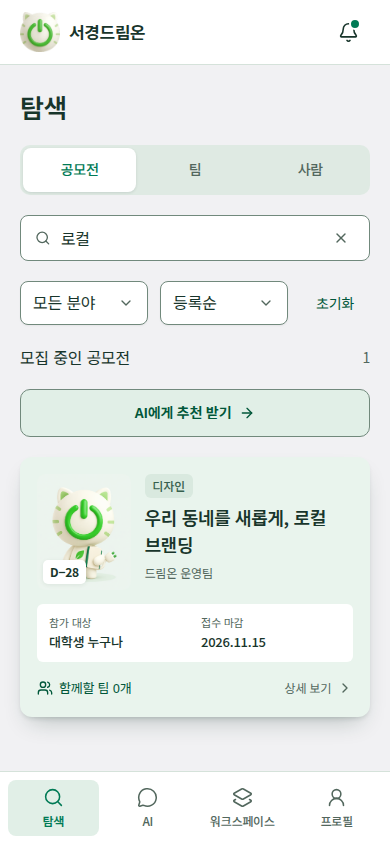
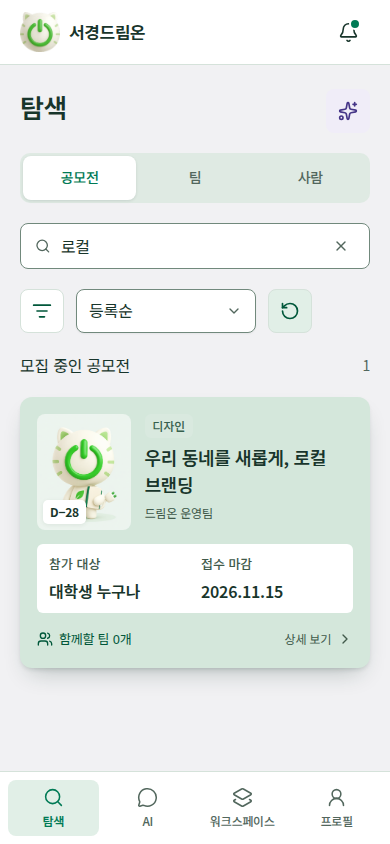
docs(design): refresh interaction guidance and mobile captures

diff --git a/docs/design/tokens.md b/docs/design/tokens.md
@@ -1,13 +1,15 @@
 # 스타일과 컴포넌트
 
-모바일 공식 디자인은 기존 중립 회색 배경과 옅은 녹색 카드, 에메랄드 주요 버튼을 사용합니다. 서경대학교 홈페이지의 녹색 강조와 밝은 표면을 참고해 본문·조작·상태의 역할을 구분합니다. 밝은 녹색은 마스코트 이미지에 두고, 작은 글자와 주요 행동에는 명암 대비를 확보한 짙은 녹색을 적용합니다. 색상과 수치는 [preview-tokens.css](../../design-reference/src/features/design-preview/preview-tokens.css)가 원본이며 이 문서는 사용 의도를 설명합니다.
+모바일 공식 디자인은 기존 중립 회색 배경과 녹색 카드, 에메랄드 주요 버튼을 사용합니다. 서경대학교 홈페이지의 녹색 강조와 밝은 표면을 참고해 본문·조작·상태의 역할을 구분합니다. 카드 자체의 색과 그림자로 배경과의 구분을 강화하고, 작은 글자와 주요 행동에는 명암 대비를 확보한 짙은 녹색을 적용합니다. 색상과 수치는 [preview-tokens.css](../../design-reference/src/features/design-preview/preview-tokens.css)가 원본이며 이 문서는 사용 의도를 설명합니다.
 
 ## 표면과 상태
 
 | 용도 | 토큰 · 현재 값 | 적용 |
 | --- | --- | --- |
 | 화면 바탕 | `--surface-canvas: #f1f1f3` | 스크롤 화면의 배경 |
-| 콘텐츠 카드 | `--surface-card: #e9f4ed` | 공모전·팀·사람·AI 결과 카드, 프로필·내용 패널과 지원자 행 |
+| 콘텐츠 카드 | `--surface-card: #d4e7db` | 공모전·팀·사람·AI 결과 카드, 프로필·내용 패널과 지원자 행 |
+| 카드 hover·포커스 | `--surface-card-hover: #bdd9c7` | 조작 가능한 카드에 커서·키보드 포커스가 올라온 상태 |
+| 누른 카드 | `--surface-card-pressed: #b2d0bd` | 카드의 누름 상태 |
 | 입력·상단·팝업·폼 | `--card`, `--background: #ffffff` | 기본 shadcn 표면과 조작 영역, 카드 안 공모전 정보 |
 | 카드 안 보조 면 | `--muted: #f2f7f4` | 카드의 보조 정보 |
 | 눌린 면·탭 바탕 | `--surface-sunken: #dfeae3` | 탭 레일·설정·사용자 메시지 등 |
@@ -15,14 +17,16 @@
 | 주요 행동·선택 | `--primary: #007a55`, hover `#00573a` | 주요 버튼·선택한 탭·탐색 항목 |
 | 선택한 면 | `--accent: #e1efe7`, 글자 `#00573a` | 선택·hover 영역 |
 | AI 보조 강조 | `--ai-soft: #f0edf8`, `--ai-ink: #453587` | AI 시작 아이콘의 보조색 |
-| 보조 텍스트 | `--muted-foreground: #52675d` | 설명·부가 정보 |
+| 보조 텍스트 | `--muted-foreground: #52675d` | 흰 조작 면의 설명·부가 정보 |
+| 카드 안 보조 텍스트 | `--card-muted-foreground: #40594a` | 녹색 카드·내용 패널·지원자 행에서 보조 텍스트 토큰을 덮어씀 |
+| 카드 안 링크 | `--accent-foreground: #00573a` | 상세 보기·팀 공간으로 등 카드 안 이동 행동 |
 | 경계·입력 | `--border: #d5e2da`, `--input: #71897c` | 카드와 조작 요소의 경계 |
 | 포커스 | `--ring: #007a55` | 키보드 포커스 표시 |
 | 성공·확정 | `--leaf-soft: #f0fdf4`, `--leaf-ink: #166534` | 성공·완료 상태 |
 | 주의·확인 | `--warning-soft: #fffbeb`, `--warning-ink: #92400e` | 확인 필요·주의 상태 |
 | 오류·위험 행동 | `--coral-soft: #fef2f2`, `--coral-ink: #b91c1c` | 오류·파괴적 행동 |
 
-루트 [globals.css](../../design-reference/src/styles/globals.css)의 기본값만 가져오면 공식 화면의 표면 대비가 달라집니다. 모바일 범위의 토큰 덮어쓰기와 [service-ui.css](../../design-reference/src/features/design-preview/service-ui.css)의 실제 적용을 함께 확인합니다. 카드 바탕과 화면 바탕을 같은 색으로 합치지 않고, 상태는 색상 외에 문구·아이콘으로도 구분합니다. 주요 버튼의 흰 글자 대비는 5.36:1, 보조 글자는 녹색 카드에서 5.39:1, 흰 조작 면에서 6.07:1, 눌린 면에서 4.92:1입니다. 기본색은 [공식 홈페이지 CSS 확인 기록](assets.md)을 참고합니다.
+루트 [globals.css](../../design-reference/src/styles/globals.css)의 기본값만 가져오면 공식 화면의 표면 대비가 달라집니다. 모바일 범위의 토큰 덮어쓰기와 [service-ui.css](../../design-reference/src/features/design-preview/service-ui.css)의 실제 적용을 함께 확인합니다. 카드 바탕과 화면 바탕을 같은 색으로 합치지 않고, 상태는 색상 외에 문구·아이콘으로도 구분합니다. 주요 버튼의 흰 글자 대비는 5.36:1입니다. 카드 보조 글자는 기본·hover·누름 면에서 각각 5.92:1·5.07:1·4.61:1이며, 흰 조작 면의 기본 보조 글자는 6.07:1입니다. 기본색은 [공식 홈페이지 CSS 확인 기록](assets.md)을 참고합니다.
 
 ## 간격·글꼴·입체감
 
@@ -34,10 +38,15 @@
 | 컨트롤·버튼 반경 | 8px |
 | 카드·패널 반경 | 12px |
 | 페이지 제목 | 26px, 실제 계층은 화면별 스타일 확인 |
+| 읽기 전용 정보의 키 | 13px·500, 보조 텍스트 색상 |
+| 읽기 전용 정보의 값 | 16px·600, 본문 색상과 숫자 고정 폭 |
+| 긴 경험·자기소개 | 16px·400, 줄 높이 1.7 |
 | 폰트 | `DreamOn Noto` / Noto Sans KR |
 | 주요 조작 영역 | 버튼·아이콘·탭 등에서 최소 44px을 확보 |
 
-카드는 두 겹의 아래쪽 그림자(`--card-shadow`: 3px·12px 오프셋)로 회색 바탕에서 떠 있는 높이를 표현하고 작은 패널은 `--panel-shadow`를 사용합니다. 색은 화면 배경 대신 콘텐츠 카드에 적용하며, 공모전 카드의 대상·마감 정보는 흰 면으로 구분합니다. 카드 hover에서는 높이와 그림자가 커지고, 누르면 그림자가 낮아집니다. 정확한 그림자와 hover 값은 토큰 원본을 참조합니다. 모바일에서 hover에만 중요한 정보나 행동을 숨기지 않습니다. 장식용 그림자보다 표면 대비·여백·제목 계층을 우선하며, 버튼의 강조를 위해 그림자를 반복 추가하지 않습니다.
+카드는 두 겹의 아래쪽 그림자(`--card-shadow`: 3px·12px 오프셋)로 회색 바탕에서 떠 있는 높이를 표현하고 작은 패널은 `--panel-shadow`를 사용합니다. 색은 화면 배경 대신 콘텐츠 카드에 적용하며, 공모전 카드의 대상·마감 정보는 흰 면으로 구분합니다. 조작 가능한 카드는 hover·키보드 포커스에서 더 짙은 녹색으로 상태를 표시합니다. hover에서는 높이·그림자가 커지고, 누르면 그림자가 낮아집니다. 정확한 그림자와 상태별 적용은 토큰·스타일 원본을 참조합니다. 모바일에서 hover에만 중요한 정보나 행동을 숨기지 않습니다. 장식용 그림자보다 표면 대비·여백·제목 계층을 우선하며, 버튼의 강조를 위해 그림자를 반복 추가하지 않습니다.
+
+[information-hierarchy.css](../../design-reference/src/features/design-preview/information-hierarchy.css)는 공모전·팀 정보, 프로필과 지원자 정보의 키·값·설명을 구분합니다. 짧은 값은 강조하되 긴 문단과 빈 상태 안내 전체를 굵게 만들지 않습니다. 상세 정보는 라벨 열과 값 열을 맞추고 긴 값은 줄바꿈하며, 폼 입력 라벨과 실제 섹션 제목은 이 규칙으로 바꾸지 않습니다.
 
 [폰트 파일](../../design-reference/public/fonts/NotoSansKR.ttf)과 [OFL 라이선스](../../design-reference/public/fonts/OFL.txt), 카드의 공모전 커버·로고·파워프렌즈 캐릭터는 레퍼런스의 로컬 자산입니다. 원본 및 생성 이미지의 출처는 [자산 문서](assets.md)를 따릅니다. [PreviewUi](../../design-reference/src/features/design-preview/PreviewUi.tsx)의 사용처를 확인하고 파일·라이선스를 함께 유지합니다. 실제 인물 사진·공고 포스터로 오인해 서비스 데이터의 출처로 사용하지 않습니다.
 
@@ -51,6 +60,7 @@
 | 다중·단일 선택 | [Checkbox](../../design-reference/src/components/ui/checkbox.tsx), [RadioGroup](../../design-reference/src/components/ui/radio-group.tsx) |
 | 프로필 캐릭터 선택 | [Drawer](../../design-reference/src/components/ui/drawer.tsx) + [RadioGroup](../../design-reference/src/components/ui/radio-group.tsx), [AvatarPicker](../../design-reference/src/features/design-preview/AvatarPicker.tsx). 팝업 적용 후 프로필 저장, 취소 시 유지 |
 | 공모전 검색 선택 | [Drawer](../../design-reference/src/components/ui/drawer.tsx) + [Command](../../design-reference/src/components/ui/command.tsx), [ContestPicker](../../design-reference/src/features/design-preview/ContestPicker.tsx) |
+| 탐색 분야·역할 필터 | [Drawer](../../design-reference/src/components/ui/drawer.tsx) + [RadioGroup](../../design-reference/src/components/ui/radio-group.tsx) + [Checkbox](../../design-reference/src/components/ui/checkbox.tsx), [ExploreFilters](../../design-reference/src/features/design-preview/ExploreFilters.tsx). 초안 선택·취소·적용, 적용한 조건은 URL에 유지 |
 | 시간 설정·알림·확인 | [Drawer](../../design-reference/src/components/ui/drawer.tsx), 각 화면의 열기·닫기·취소·적용 흐름 |
 | AI 대화·입력 | [Message](../../design-reference/src/components/ui/message.tsx), [Bubble](../../design-reference/src/components/ui/bubble.tsx), [InputGroup](../../design-reference/src/components/ui/input-group.tsx), [MessageScroller](../../design-reference/src/components/ui/message-scroller.tsx) |
 | 상태 표시·경계 | [Badge](../../design-reference/src/components/ui/badge.tsx), [Separator](../../design-reference/src/components/ui/separator.tsx) |
@@ -60,5 +70,7 @@
 ## 모바일 상호작용 확인
 
 하단 탐색은 탐색·AI·워크스페이스·프로필의 네 항목입니다. 상단 우측 알림과 하단 프로필의 역할을 구분합니다. AI 화면은 대화·입력창·하단 영역을 함께 배치하며 [PreviewShell](../../design-reference/src/features/design-preview/PreviewShell.tsx)의 `visualViewport` 대응을 확인합니다.
+
+공모전·팀 탐색의 AI 추천 진입은 제목 옆 아이콘입니다. 필터와 초기화도 최소 44px 조작 영역의 아이콘 버튼으로 표시하며 접근성 이름을 제공합니다. 선택한 필터는 개수와 접근성 설명으로 알리고, 공모전 정렬은 선택 목록을 유지합니다. 정렬만 바꾼 경우에도 초기화 아이콘으로 기본 조건으로 돌아갈 수 있습니다.
 
 팝업은 열기·닫기·Escape·바깥 영역·포커스 복귀를 확인하고, 폼의 적용과 취소를 구분합니다. 프로필 공개 스위치는 라벨과 설명에서 누구에게 공개되는지 드러내야 합니다. 화면 제목·입력 라벨·오류 메시지·로딩·빈 상태를 유지하고 색만으로 상태를 전달하지 않습니다. 긴 한국어 텍스트·큰 글꼴·화면 확대·작은 높이·키보드가 열린 상태·감소된 모션 설정에서 조작이 가능한지 확인합니다.

diff --git a/docs/design/verification.md b/docs/design/verification.md
@@ -1,24 +1,26 @@
 # 공식 디자인 검증 기록
 
-2026-10-18 저장소 이관·기능 명세 정합 작업 이후, 로고·마스코트 선택·기본 커버·대학교 색상과 카드 입체감 적용까지 확인했습니다. 재생성 가능한 검증 원본은 [단위·컴포넌트 테스트](../../design-reference/src/features/design-preview/ExplorePages.test.tsx)와 [브라우저 검사 스크립트](../../design-reference/scripts/reference-check.cjs)이며, 화면은 같은 변경 PR에 포함된 코드 기준입니다.
+2026-10-18 저장소 이관·기능 명세 정합 작업 이후, 로고·마스코트 선택·기본 커버에 이어 카드 대비·탐색 아이콘과 필터 팝업·키/값 정보 계층을 검토했습니다. 재생성 가능한 검증 원본은 [단위·컴포넌트 테스트](../../design-reference/src/features/design-preview/ExplorePages.test.tsx)와 [브라우저 검사 스크립트](../../design-reference/scripts/reference-check.cjs)이며, 화면은 같은 변경 PR에 포함된 코드 기준입니다.
 
 ## 실행 결과
 
 | 검사 | 결과 |
 | --- | --- |
-| 고정 의존성 `npm ci` | 성공 |
-| `npm test` | 9개 파일, 105개 테스트 통과 |
-| ESLint·Prettier·TypeScript | 통과 |
-| production build | 성공. 단일 JS 청크 약 673kB 경고는 남아 있으며 제품 구현 시 분할·실제 네트워크 성능 검증 필요 |
-| `npm run check:ui` | Chromium 320×844·390×844·430×844 통과 |
+| 고정 의존성 `npm ci` | 이전 검증에서 성공. 이번 카드·탐색 개선에서는 의존성 변경 없이 기존 설치를 사용했으며 재실행하지 않음 |
+| `npm test` | 9개 파일, 107개 테스트 통과 |
+| ESLint·Prettier | 통과 |
+| TypeScript·production build | 통과. 단일 JS 청크 675.38kB 경고는 남아 있으며 제품 구현 시 분할·실제 네트워크 성능 검증 필요 |
+| `npm run check:ui` | Chromium 320×844·390×844·430×844 통과. 기존 흐름에 필터 취소·적용·초기화와 워크스페이스 중복 안내 제거 확인을 추가 |
 | 브라우저 확인 | 비로그인 사람 차단, 마감 공고 읽기 전용, 생성·프로필, 선발 즉시 팀원·정원 반영, AI 실패/재시도, 알림 실패/재시도 |
 | 별도 모바일 흐름 | 필수 입력 오류·원래 팀 복귀, 모집에 없는 역할 지원, 취소 후 새 지원, 공식 인원 오류, 개인 공모전 준비 팀, 공개 스위치·학사 연쇄 선택·포트폴리오 저장 |
 | 마스코트·기본 커버 | 5종 원본 PNG·선택/취소/저장·공개 프로필 반영, 이미지 없음/로드 실패 fallback, 320·390·430px 브라우저 확인 |
-| 키보드·작은 높이 | 마스코트 선택 화살표 키·Escape·트리거 포커스 복귀, 320×568 선택 목록 스크롤·하단 버튼 접근 확인 |
-| 색상 대비 | 주요 버튼 흰 글자 5.36:1, 보조 텍스트 녹색 카드 5.39:1·흰 조작 면 6.07:1·눌린 면 4.92:1. 모든 화면 전체의 자동 접근성 감사 완료를 뜻하지 않음 |
-| 카드와 배경 | 기존 중립 회색 배경 #f1f1f3 유지, 옅은 녹색 카드 #e9f4ed·강화한 아래쪽 그림자·흰 정보 면을 모바일에서 확인 |
+| 키보드·작은 높이 | 마스코트·탐색 필터의 화살표 키·Escape·트리거 포커스 복귀 확인. 320×568에서 두 선택 목록의 스크롤·하단 버튼 접근, 탐색 필터 적용·취소 확인 |
+| 색상 대비 | 주요 버튼 흰 글자 5.36:1. 카드 보조 글자 #40594a는 기본·hover·누름 면에서 5.92:1·5.07:1·4.61:1, 흰 조작 면의 기본 보조 글자는 6.07:1. 모든 화면 전체의 자동 접근성 감사 완료를 뜻하지 않음 |
+| 카드와 배경 | 기존 중립 회색 배경 #f1f1f3 유지, 카드 #d4e7db·hover #bdd9c7·누름 #b2d0bd, 아래쪽 그림자·흰 정보 면을 적용 |
+| 탐색 필터 | Drawer 초안 선택 후 취소 시 URL 유지, 적용 시 URL 반영·다시 열기 복원. 정렬만 변경해도 초기화 아이콘으로 기본 조건 복원하는 컴포넌트 테스트 통과 |
+| 정보 계층·중복 안내 | 공모전·공고·내 프로필·공개 프로필·워크스페이스·팀 공간·지원자 검토 7개 경로를 320·390·430px에서 확인. 키 13px/500, 값 16px/600, 긴 설명 16px/400. 팀 목록 중복 정원 문구 제거와 기존 정원 정책 유지 |
 | 레퍼런스 화면 | 확인한 폭에서 가로 넘침·브라우저 런타임 오류 없음 |
-| 문서 | 원본 링크·앵커, 문서 도구 테스트, VitePress 빌드·생성 링크·자산 검사 통과 |
+| 문서 | 최신 스크린샷을 포함한 원본 링크·앵커, VitePress 빌드·생성 링크·자산 검사 통과. 문서 도구는 변경하지 않아 이전에 통과한 도구 테스트는 재실행하지 않음 |
 
 브라우저 검사는 설치된 Playwright/Chromium을 환경 변수로 지정해 실행했습니다. 일반 설치·수동 실행 명령은 [인계 문서](handoff.md#verification-commands)를 따릅니다. 실제 기기의 키보드·보조 기술, 서버 권한, 다중 사용자 동시 선발, 영구 저장과 실제 LLM 품질은 검증 대상이 아닙니다. 이 결과는 기능 명세 AC의 제품 구현 완료를 의미하지 않습니다.
 
@@ -29,6 +31,14 @@
 | 탐색 · 390px | AI · 390px |
 | --- | --- |
 | ![공모전 카드와 탐색](assets/explore-390.png) | ![AI 추천 카드와 대화](assets/ai-390.png) |
+
+| 탐색 필터 · 390px | 카드 hover · 390px |
+| --- | --- |
+| ![분야와 역할을 선택하는 탐색 필터 팝업](assets/explore-filters-390.png) | ![더 진한 색과 그림자로 구분되는 카드 hover 상태](assets/explore-hover-390.png) |
+
+워크스페이스는 역할과 확정 인원 값을 강조하고 반복 정원 안내를 제거했습니다.
+
+![키와 값의 위계가 분명한 워크스페이스 팀 카드](assets/workspace-390.png)
 
 | 즉시 선발 확인 · 390px | 확정 팀원 · 390px |
 | --- | --- |

diff --git a/docs/design/screens.md b/docs/design/screens.md
@@ -7,7 +7,7 @@
 | 화면·경로 | 코드 원본 | 구현할 정책·완료 조건 |
 | --- | --- | --- |
 | 로그인·가입 `/login`, `/signup` | [AccountPages](../../design-reference/src/features/design-preview/AccountPages.tsx) | [인증 AC-04~13](../specs/authentication.md#acceptance-criteria): 자체 로그인·교내 미인증·로그인 후 행동·접근 권한. 레퍼런스 로그인은 모의 동작 |
-| 공모전 탐색 `/explore` | [ExplorePages](../../design-reference/src/features/design-preview/ExplorePages.tsx) | [공고 명세](../specs/contests.md): 제목·분야·마감·공개 정보, 검색·필터·빈 결과 |
+| 공모전 탐색 `/explore` | [ExplorePages](../../design-reference/src/features/design-preview/ExplorePages.tsx), [ExploreFilters](../../design-reference/src/features/design-preview/ExploreFilters.tsx) | [공고 명세](../specs/contests.md): 제목·분야·마감·공개 정보, 검색·필터·빈 결과. 분야는 아이콘으로 여는 Drawer에서 선택·적용 |
 | 공모전 상세 `/contests/:contestId` | [ExplorePages](../../design-reference/src/features/design-preview/ExplorePages.tsx) | [공고 공개·참가·마감 정책](../specs/contests.md): 원문·참가 방식·인원·일정·제출물·미확인 정보, 관련 팀·팀 만들기 연결 |
 | 팀 탐색 `/explore?tab=teams` | [ExplorePages](../../design-reference/src/features/design-preview/ExplorePages.tsx) | [팀 AC-01](../specs/team-recruitment.md#acceptance-criteria): 모집 역할·정원·상태·공모전별 탐색 |
 | 공개 모집글 `/teams/:teamId` | [WorkspacePages](../../design-reference/src/features/design-preview/WorkspacePages.tsx) | [팀 AC-03~07·15·18·26](../specs/team-recruitment.md#acceptance-criteria): 지원·필수 프로필 보완·메시지·마감·중복·취소 후 재지원 |
@@ -31,6 +31,8 @@ UI에서 확인할 수 있는 흐름과 명세 전체의 구현 완료는 다릅
 | 흐름 | 화면을 검토할 때 함께 확인할 것 |
 | --- | --- |
 | 탐색 → 상세 → 복귀 | 검색·선택한 탭·필터, 결과 없음, 공고·팀이 없는 주소. 커서 조회·무한 스크롤·이전 스크롤 복원은 현재 제품 계약으로 확정하지 않음 |
+| 탐색 필터·정렬·초기화 | 필터 아이콘 → Drawer의 분야/역할 초안 선택 → 적용 시 URL 반영. 취소·Escape·바깥 닫기 시 미적용 선택 제거, 다시 열면 적용값 복원. 팀의 모집중만 조건, 정렬만 변경했을 때도 초기화 아이콘 표시·기본 조건 복원 |
+| 탐색 → AI | 공모전·팀 탐색 제목 옆 AI 아이콘으로 이동. 큰 추천 배너 없이 44px 조작 영역·접근성 이름 제공 |
 | 팀 만들기 → 공모전 선택 | Drawer 열기·검색·선택·취소·닫기, 결과가 많을 때 추가 표시, 팀장 포함 총인원 안내와 공식 인원 범위 오류 |
 | 프로필 수정 → 저장 | 캐릭터 팝업 선택·취소·프로필 저장, 기본 스콘, 공개 결과·팀 공간에서 같은 이미지 표시, 학사 상위 선택 변경, 경험 미입력/경험 없음 구분, 공개 동의 기본값, URL 삭제·무효화 후 공개 해제, 취소 시 미저장 값 제거 |
 | 지원 → 내 지원 | 로그인 안내, 필수 프로필 보완 후 원래 흐름 복귀, 선택 메시지, 중복·마감·정원 부족, 접수 후 현재 지원 표시 |
@@ -40,6 +42,8 @@ UI에서 확인할 수 있는 흐름과 명세 전체의 구현 완료는 다릅
 | 알림 → 관련 화면 | 알림함 열기만으로 읽음 처리하지 않음, 개별/모두 읽음, 빈 상태, 비로그인에 개인 항목 비노출. 읽음 실패 시 개수와 미읽음 상태 유지, 같은 동작 재시도 후 관련 화면 이동 |
 
 반응형 확인은 320px·390px·430px 모바일 폭을 기준으로 합니다. 팝업 포커스·닫기·키보드, 긴 제목·설명, 큰 글꼴, 안전 영역과 세로 스크롤을 함께 검토합니다. 테스트 결과·스크린샷은 검증한 커밋과 함께 PR에 연결합니다.
+
+키·값 정보는 공모전 카드·상세, 팀 목록·공간, 내 프로필·공개 프로필·지원자 검토에서 같은 [정보 계층](tokens.md)을 사용합니다. 워크스페이스 팀 카드는 내 역할과 확정 인원/정원으로 요약하고, 중복되는 `팀장 포함 총 N명` 안내는 생략합니다. 팀 만들기·모집 상세의 정원 안내와 팀장 포함 정원 계산 정책은 유지합니다.
 
 <a id="remaining-decisions"></a>
 
@@ -64,6 +68,7 @@ UI에서 확인할 수 있는 흐름과 명세 전체의 구현 완료는 다릅
 ## 재현 경로
 
 - `/explore?q=로컬`: 이미지가 없는 공모전의 스콘 기본 커버. 공모전 선택창과 AI 공모전 추천에도 같은 fallback을 적용하며 이미지 로드 실패도 처리.
+- `/explore?sort=deadline`: 마감 임박순만 적용된 상태에서 초기화 아이콘 확인. 필터 Drawer에서 분야 선택·취소·적용·다시 열기 확인.
 - `/contests/archive`: 마감 공고 읽기 전용 상세·원문 링크.
 - `/ai?scenario=error`: 첫 응답 실패 후 같은 요청 재시도. `마케팅 역할 사람 찾아줘`로 결과 없음 확인.
 - `/explore?scenario=notification-error`: 로그인한 상태에서 첫 읽음 처리 실패·재시도.
